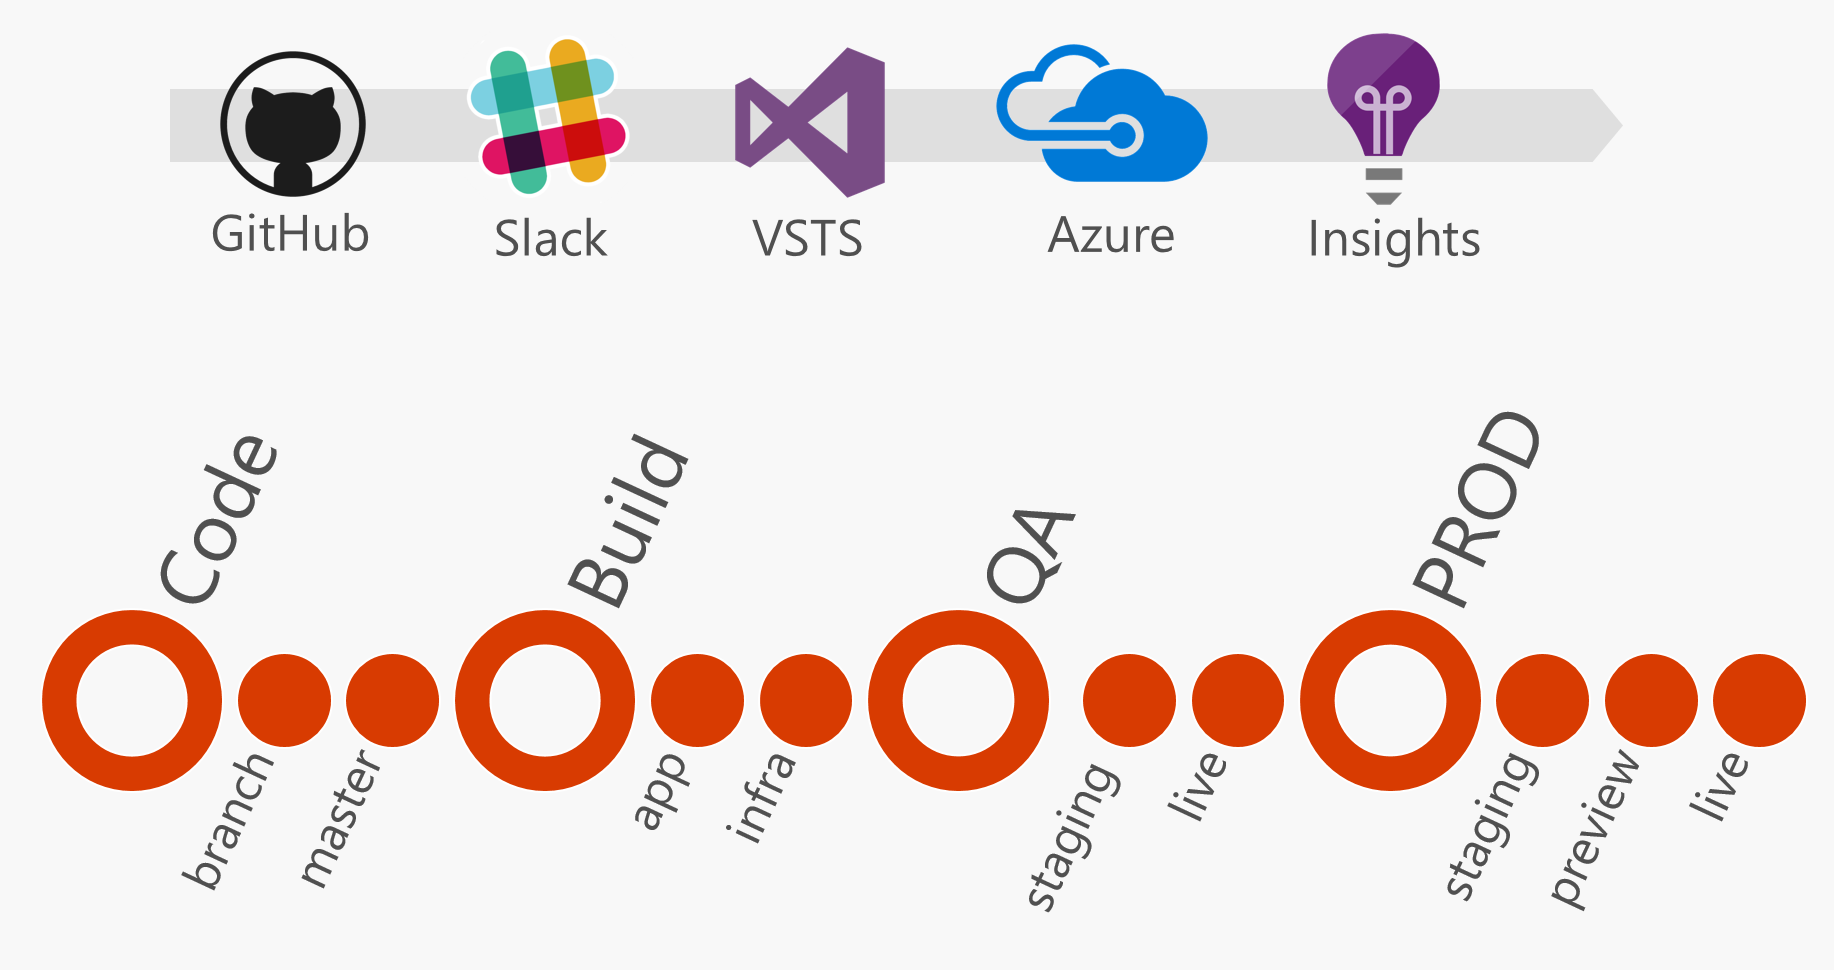
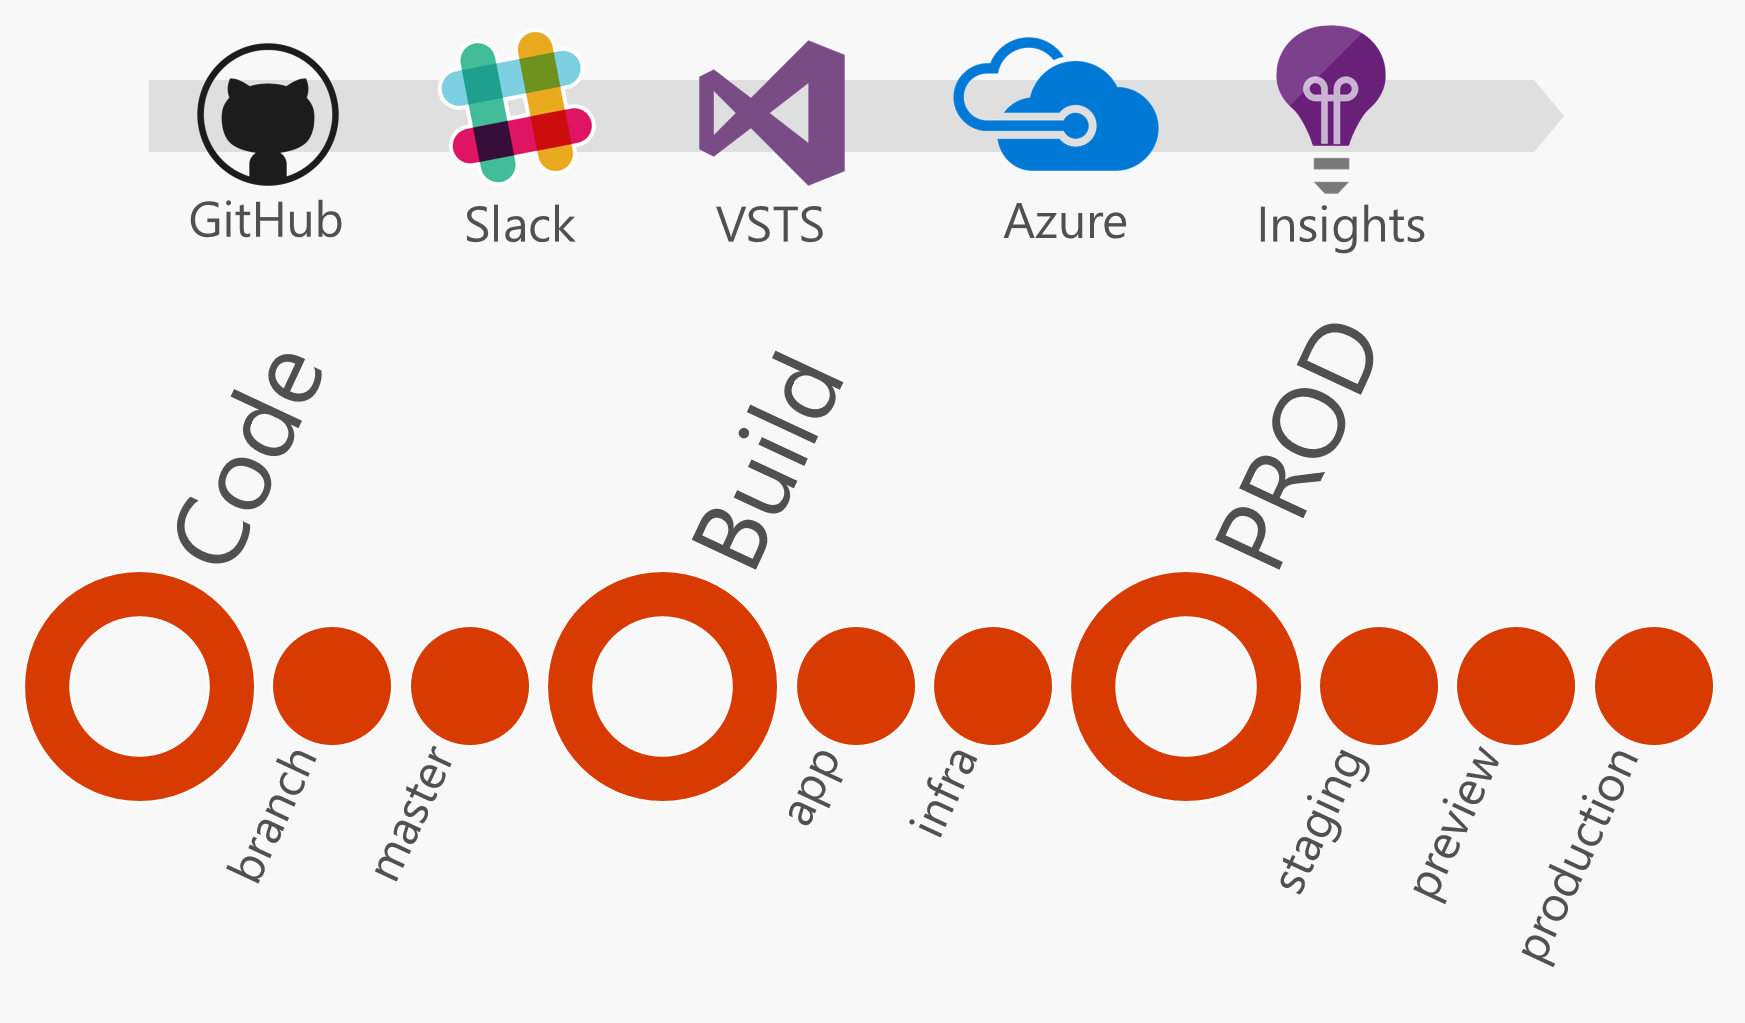
Update main process image and Release docs.

Changed region(s): [[0.0, 0.3093, 0.9903, 0.9588], [0.0619, 0.0, 0.8974, 0.2784]]

diff --git a/docs/Release.md b/docs/Release.md
@@ -142,4 +142,66 @@ Here is one example to Release this Web App via VSTS. You could adapt it with yo
 - Location = East US
 
 ##Steps
-- TODO
+- (Ensure) App Service Plan
+  - Type = Azure Resource Group Deployment
+  - Azure Connection Type = Azure Resource Manager
+  - Azure RM Subscription = set appropriate
+  - Action = Create Or Update Resource Group
+  - Resource Group = $(ResourceGroupName)
+  - Location = $(Location)
+  - Template = $(System.DefaultWorkingDirectory)/Build AspNetCoreApplication/arm-templates/[AppServicePlan.json](../release/ManageAzureWebAppAzureResourceGroup/templates/AppServicePlan.json)
+  - Override Template Parameters = -appServicePlanName $(ResourceGroupName)
+  - Deployment Mode = Incremental
+- Web App
+  - Type = Azure Resource Group Deployment
+  - Azure Connection Type = Azure Resource Manager
+  - Azure RM Subscription = set appropriate
+  - Action = Create Or Update Resource Group
+  - Resource Group = $(ResourceGroupName)
+  - Location = $(Location)
+  - Template = $(System.DefaultWorkingDirectory)/Build AspNetCoreApplication/arm-templates/[WebApp.json](../release/ManageAzureWebAppAzureResourceGroup/templates/WebApp.json)
+  - Override Template Parameters = -webAppName $(ResourceGroupName) -appServicePlanName $(ResourceGroupName)
+  - Deployment Mode = Incremental
+- App Insights
+  - Type = Azure Resource Group Deployment
+  - Azure Connection Type = Azure Resource Manager
+  - Azure RM Subscription = set appropriate
+  - Action = Create Or Update Resource Group
+  - Resource Group = $(ResourceGroupName)
+  - Location = $(Location)
+  - Template = $(System.DefaultWorkingDirectory)/Build AspNetCoreApplication/arm-templates/[ApplicationInsights.json](../release/ManageAzureWebAppAzureResourceGroup/templates/ApplicationInsights.json)
+  - Override Template Parameters = -appInsightsName $(ResourceGroupName)
+  - Deployment Mode = Incremental
+- Sql Database
+  - Type = Azure Resource Group Deployment
+  - Azure Connection Type = Azure Resource Manager
+  - Azure RM Subscription = set appropriate
+  - Action = Create Or Update Resource Group
+  - Resource Group = $(ResourceGroupName)
+  - Location = $(Location)
+  - Template = $(System.DefaultWorkingDirectory)/Build AspNetCoreApplication/arm-templates/[SqlDatabase.json](../release/ManageAzureWebAppAzureResourceGroup/templates/SqlDatabase.json)
+  - Override Template Parameters = -databaseName $(ResourceGroupName) -adminLogin $(AdministratorLogin) -adminLoginPassword (ConvertTo-SecureString -String '$(AdministratorLoginPassword)' -AsPlainText -Force)
+  - Deployment Mode = Incremental
+- App Settings
+  - Type = Azure Resource Group Deployment
+  - Azure Connection Type = Azure Resource Manager
+  - Azure RM Subscription = set appropriate
+  - Action = Create Or Update Resource Group
+  - Resource Group = $(ResourceGroupName)
+  - Location = $(Location)
+  - Template = $(System.DefaultWorkingDirectory)/Build AspNetCoreApplication/arm-templates/[WebAppSettings.json](../release/ManageAzureWebAppAzureResourceGroup/templates/WebAppSettings.json)
+  - Override Template Parameters = -webAppName $(ResourceGroupName)  -adminLogin $(AdministratorLogin) -adminLoginPassword (ConvertTo-SecureString -String '$(AdministratorLoginPassword)' -AsPlainText -Force)
+  - Deployment Mode = Incremental
+- Swap Staging to Production
+  - Type = Azure App Service Manage (PREVIEW)
+  - AzureRM Subscription = set appropriate
+  - App Service Name = $(ResourceGroupName)
+  - Resource Group = $(ResourceGroupName)
+  - Source Slot = $(SlotToSwap)
+  - Swap with Production = true
+- Set Resource Group Lock
+  - Type = Azure PowerShell
+  - Azure Connection Type = set appropriate
+  - Azure RM Subscription = set appropriate
+  - Script Path = $(System.DefaultWorkingDirectory)/Build AspNetCoreApplication/scripts/[AddResourceGroupLock.ps1](../release/ManageAzureWebAppAzureResourceGroup/scripts/AddResourceGroupLock.ps1)
+  - Script Arguments = $(ResourceGroupName)

diff --git a/README.md b/README.md
@@ -9,7 +9,8 @@ To manage them (create, update or delete) I use ARM Templates.
 #Process Overview
 The initial state of the demonstration is to have on one hand the source code of an ASP.NET application in GitHub and the associated Production environment.
 Then I do one changing on one cshtml file and one changing on one ARM Template to change an infrastructure setting.
-The commit of these changes will trigger automatically the Build (CI) and then the associated Release (CD) on QA. QA doesn't exist on the initial state of this demo, so here we are illustrating the creation of the QA environment "on-demand".
+The commit of these changes will trigger automatically the Build (Continuous Integration - CI) and then the associated Release (Continuous Delivery - CD) accross the different environments until Production. 
+Staging and Preview dont exist on the initial state of this demo, so here we are illustrating the creation of these environments "on-demand" before publishing our changes in Production to check and guarantee the quality of our application before being concretely used by our end-users.
 
 ![Process Overview](/docs/Process.PNG)
 
@@ -23,5 +24,6 @@ The commit of these changes will trigger automatically the Build (CI) and then t
 
 #Further steps:
 - Update to ASP.NET Core 1.1. Waiting for its [support in the default VSTS Build agent](https://www.visualstudio.com/en-us/docs/build/admin/agents/hosted-pool).
+- Integrate API App, Mobile App and Logic App in this "offer".
 - Deploy the application on Web App on Linux.
 - Use Azure Key Vault to store secrets
